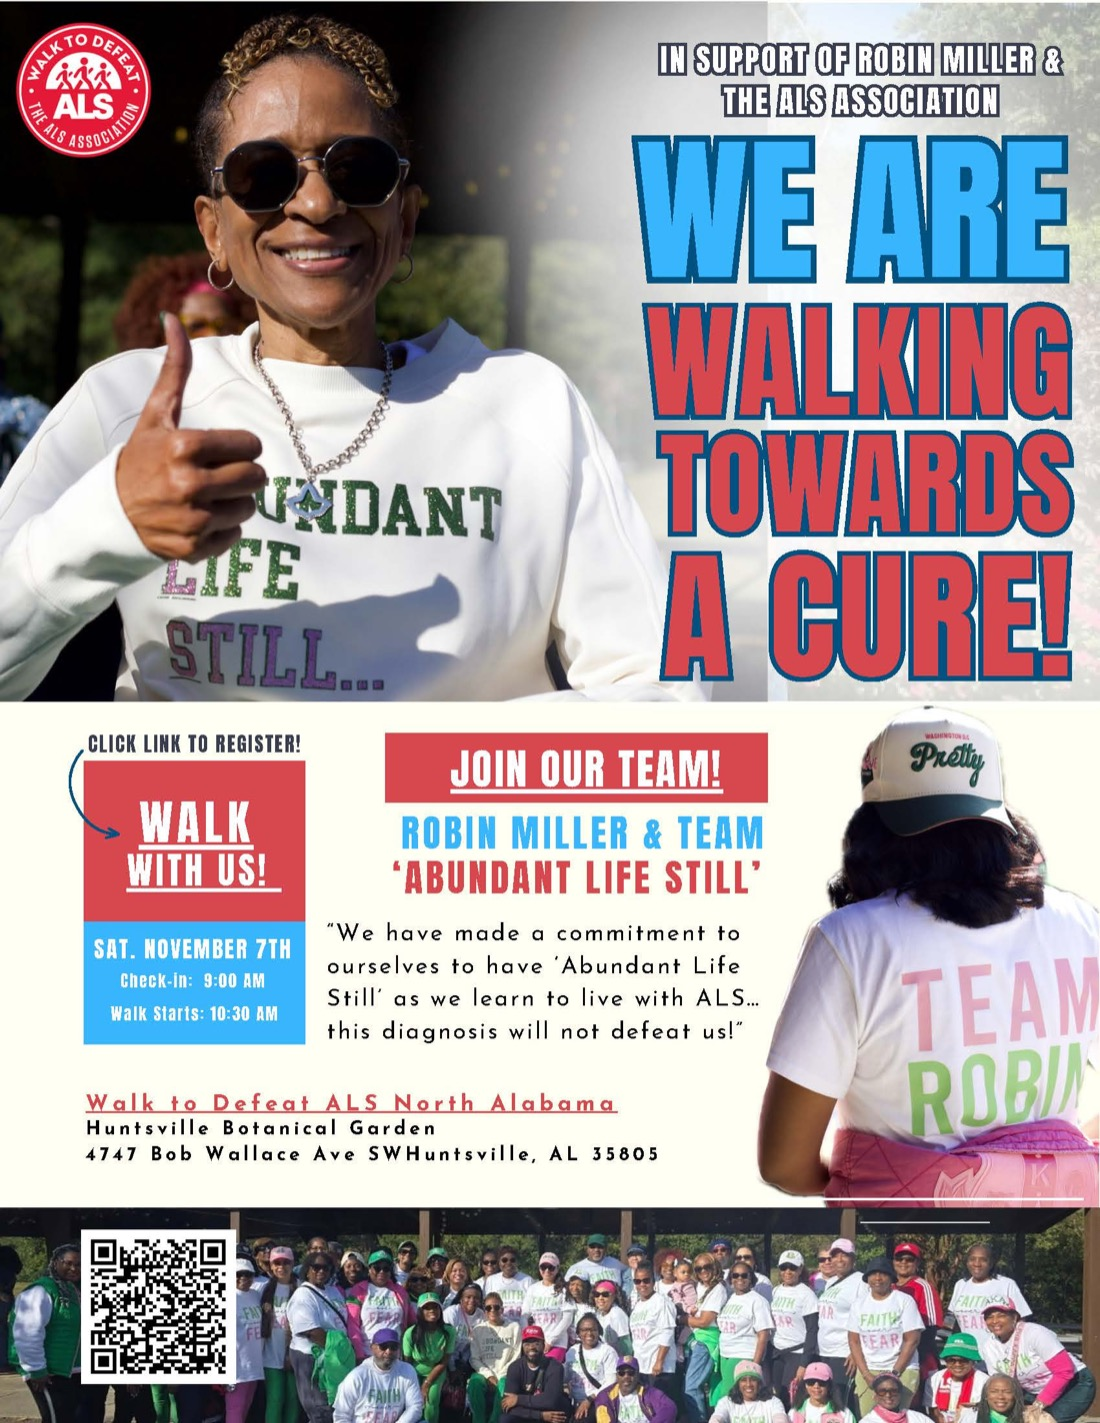
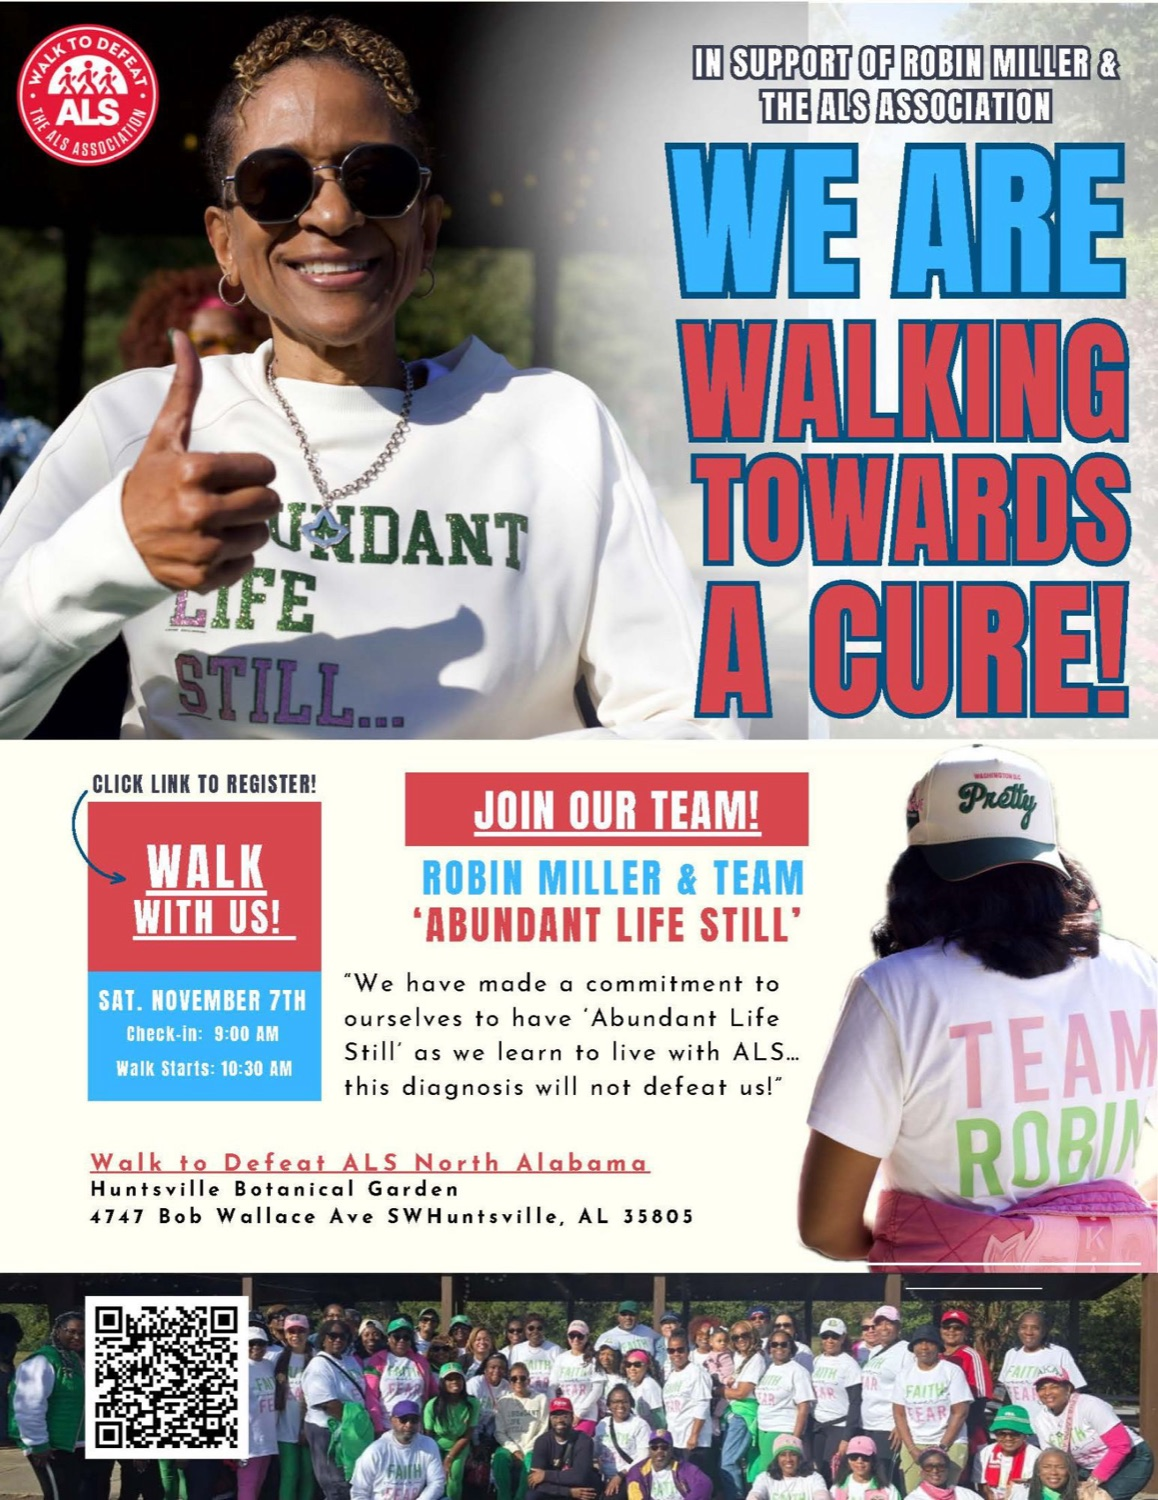
Announcements: ALS walk flyer with our soror on it

diff --git a/portal.html b/portal.html
@@ -128,8 +128,8 @@
             <div class="ann-actions"><a class="btn btn-ivy btn-caps" href="https://www.signupgenius.com/go/60B0449A5AD22A57-66758786-volunteers#/" target="_blank" rel="noopener">Click Here to Volunteer</a><button type="button" class="btn btn-ghost btn-caps" data-modal-open="modal-flyer-als">View the Flyer</button></div>
           </div>
           <div class="ann-visual v-flyer">
-            <button type="button" class="ann-flyer-btn" data-modal-open="modal-flyer-als" aria-label="View the Volunteers for Walk to Defeat ALS flyer">
-              <img src="images/announcements/als-volunteer-flyer.jpg" alt="Flyer: Volunteers for Walk to Defeat ALS North Alabama, Saturday, November 7, 2026, Huntsville Botanical Garden. Check-in 9:00 AM, walk starts 10:30 AM. Team Abundant Life Still.">
+            <button type="button" class="ann-flyer-btn" data-modal-open="modal-flyer-als" aria-label="View the Walk to Defeat ALS flyer">
+              <img src="images/announcements/als-walk-flyer.jpg" alt="Flyer: Rho Chi Omega is walking towards a cure, in support of Robin Miller and the ALS Association. Join Robin Miller and Team Abundant Life Still at the Walk to Defeat ALS North Alabama, Saturday, November 7. Check-in 9:00 AM, walk starts 10:30 AM, Huntsville Botanical Garden, 4747 Bob Wallace Ave SW, Huntsville, AL 35805.">
             </button>
           </div>
         </article>
@@ -234,12 +234,12 @@
 </div><!-- /spine-wrap -->
 
 <div class="modal-backdrop" id="modal-flyer-als">
-  <div class="modal ann-modal" role="dialog" aria-modal="true" aria-label="Volunteers for Walk to Defeat ALS flyer">
+  <div class="modal ann-modal" role="dialog" aria-modal="true" aria-label="Walk to Defeat ALS flyer">
     <button class="modal-close" aria-label="Close"><svg width="16" height="16" viewBox="0 0 24 24" fill="none" stroke="currentColor" stroke-width="2"><path d="M6 6l12 12M18 6L6 18"/></svg></button>
     <p class="eyebrow">Community Service</p>
-    <h3>Volunteers for Walk to Defeat ALS</h3>
-    <img src="images/announcements/als-volunteer-flyer.jpg" alt="Flyer: Volunteers for Walk to Defeat ALS North Alabama. Saturday, November 7, 2026. Check-in 9:00 AM, walk start 10:30 AM. Huntsville Botanical Garden, 4747 Bob Wallace Ave SW, Huntsville, AL 35805. Click the button to sign up and volunteer. Team: Abundant Life Still.">
-    <p>Family and friends of sorors are welcome to volunteer and walk with us. Volunteers who will walk should still register for the event.</p>
+    <h3>Walk to Defeat ALS</h3>
+    <img src="images/announcements/als-walk-flyer.jpg" alt="Flyer: Rho Chi Omega is walking towards a cure, in support of Robin Miller and the ALS Association. Join Robin Miller and Team Abundant Life Still at the Walk to Defeat ALS North Alabama, Saturday, November 7. Check-in 9:00 AM, walk starts 10:30 AM, Huntsville Botanical Garden, 4747 Bob Wallace Ave SW, Huntsville, AL 35805.">
+    <p>Walk with us in support of Robin Miller and the ALS Association. Scan the QR code on the flyer to register for the walk. Family and friends of sorors are welcome to volunteer and walk with us, and volunteers who will walk should still register for the event.</p>
     <p><a class="btn btn-ivy btn-sm" href="https://www.signupgenius.com/go/60B0449A5AD22A57-66758786-volunteers#/" target="_blank" rel="noopener">Click Here to Volunteer</a></p>
   </div>
 </div>
